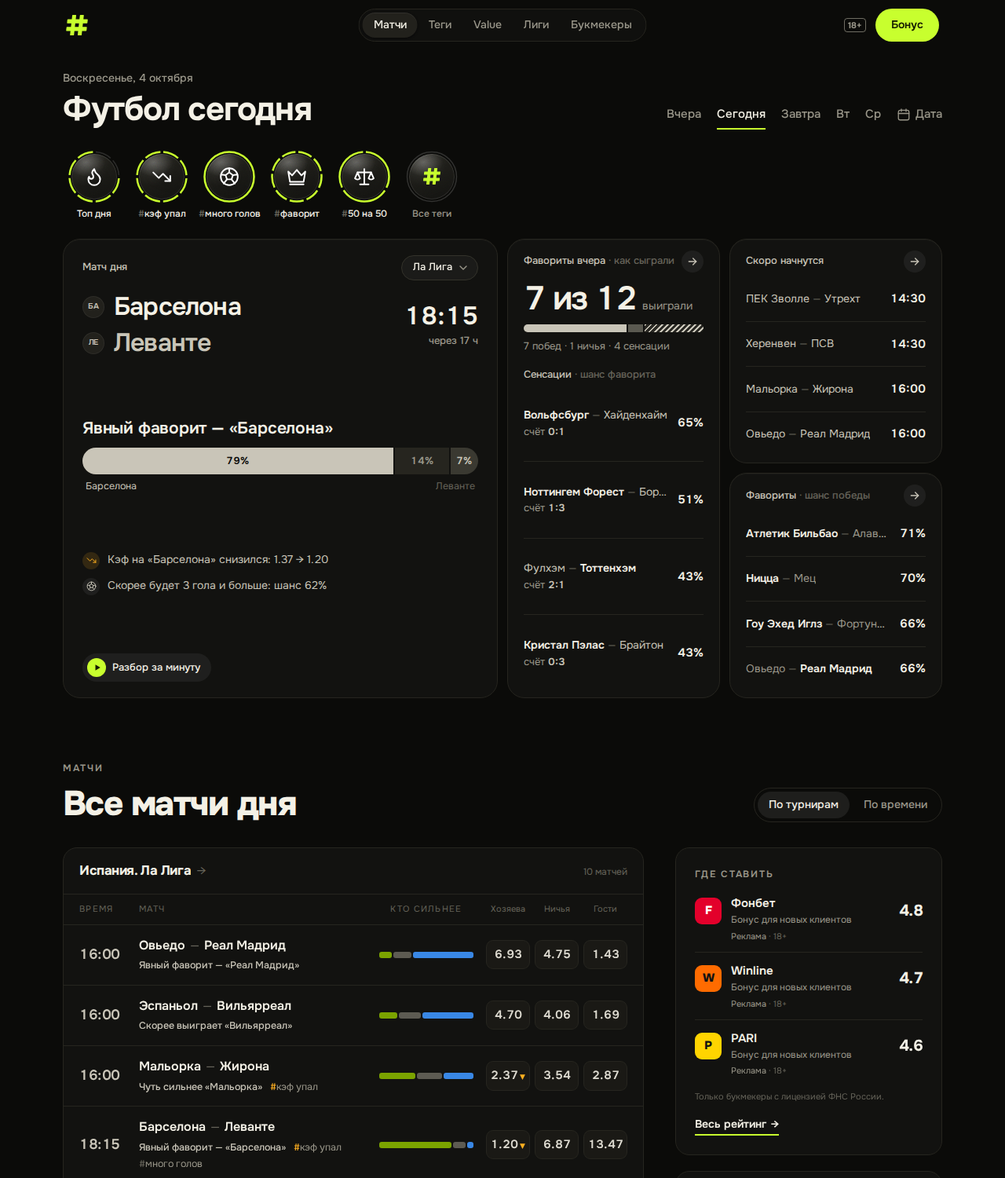
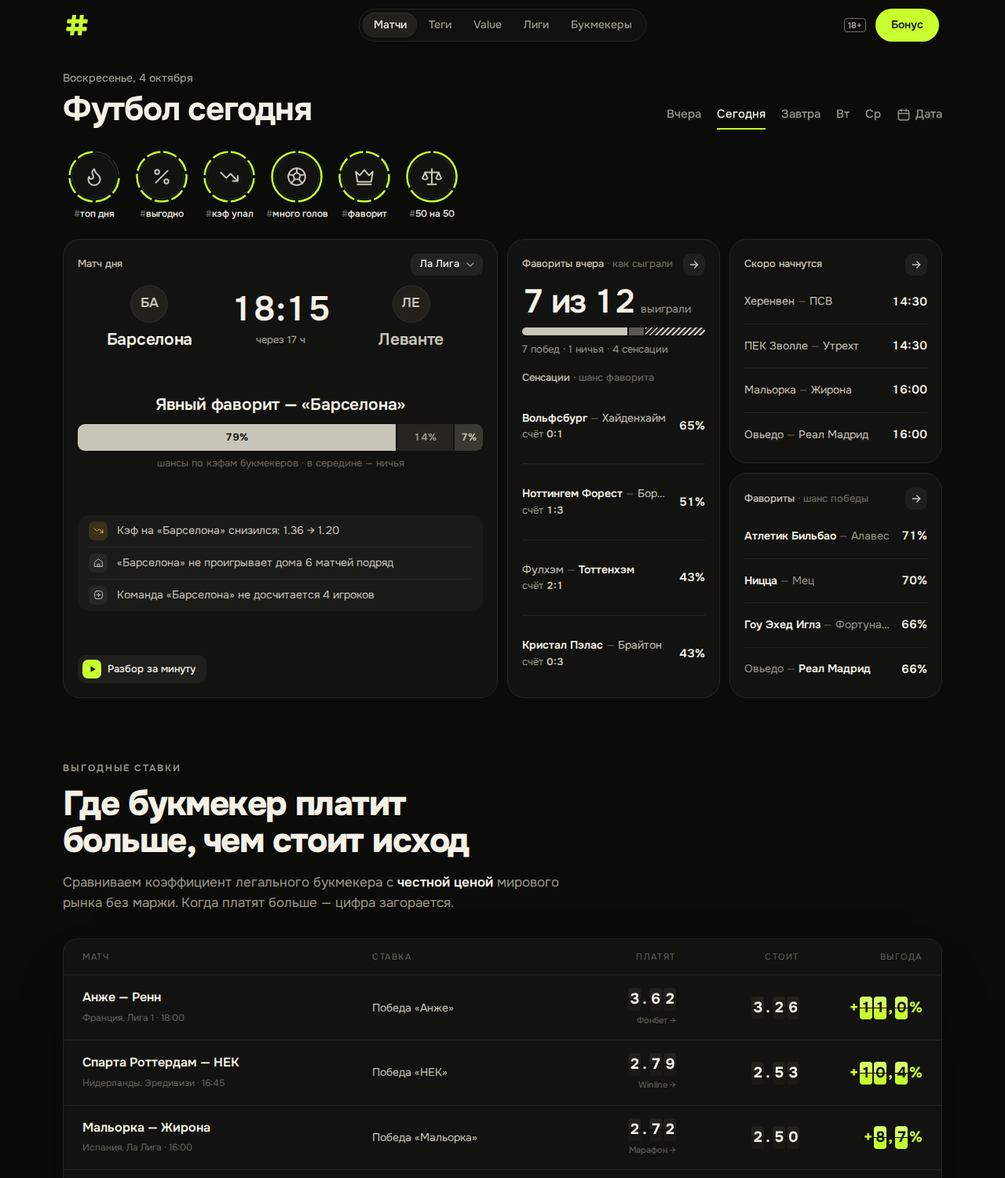
«Матч дня» — табло, как карточка матча в спортивных приложениях
- Табло: хозяева (эмблема и название) · время начала или счёт с минутой ·
  гости — вместо двух строк команд и времени сбоку.
- Под табло — вывод по центру и полоса шансов: левая часть под хозяевами,
  правая под гостями, поэтому подписи с названиями больше не повторяются;
  одна строка «шансы по кэфам букмекеров · в середине — ничья».
- Факты «почему» — одной вложенной панелью с разделителями.
- Во время игры — красный счёт, минута и полоса «сыграно N из 90 минут».
- Сводка по-прежнему влезает в 1280×720, 1440×760 и 1470×805.

Claude-Session: https://claude.ai/code/session_01LqCxNKeCAKNwhNzoBsjYvY

diff --git a/components/DaySummary.tsx b/components/DaySummary.tsx
@@ -230,9 +230,9 @@ function cardFor(kind: CardKind, s: Summary): ListCard {
 // ─── Матч дня ────────────────────────────────────────────────────────────────
 
 /**
- * Шансы одной полосой: хозяева · ничья · гости — доли ширины, проценты (в сумме 100) в полосе,
- * под ней — чей это шанс: команда, «ничья», команда. Без своих цветов, чтобы не спорить с лаймом:
- * светлая часть — фаворит, остальные — тёмные.
+ * Шансы одной полосой прямо под табло: левая часть — под хозяевами, правая — под гостями, середина —
+ * ничья; проценты (в сумме 100) внутри. Подписи с названиями не нужны — команды стоят прямо над полосой.
+ * Без своих цветов, чтобы не спорить с лаймом: светлая часть — фаворит, остальные — тёмные.
  */
 function ChanceBar({ m }: { m: Match }) {
   const f = fair1x2(m.odds?.x12)
@@ -245,43 +245,21 @@ function ChanceBar({ m }: { m: Match }) {
     n: n[k],
     name: k === 'draw' ? 'ничья' : k === 'home' ? m.home.name : m.away.name,
   }))
-  // «Ничья» под серединой — только если по обе стороны хватает места подписям команд
-  const BAR = 500
-  const est = (t: string) => t.length * 7 + 10
-  const mid = f.home + f.draw / 2
-  const drawAt = f.draw >= 0.1 && mid * BAR >= est(m.home.name) + 30 && (1 - mid) * BAR >= est(m.away.name) + 30 ? mid * 100 : null
   const tone = (k: (typeof cells)[number]['k']) => (k === fav ? 'bg-chalk text-ink' : k === 'draw' ? 'bg-[#26251f] text-dim' : 'bg-[#3a3931] text-chalk')
   const label = `Шансы по коэффициентам букмекеров: ${cells.map((c) => `${c.k === 'draw' ? c.name : `«${c.name}»`} — ${c.n}%`).join(', ')}`
   return (
     <div role="img" aria-label={label} title={label}>
-      <div className="flex h-7 gap-0.5 overflow-hidden rounded-full lg:h-[clamp(28px,3.4vh,34px)]">
+      <div className="flex h-7 gap-0.5 overflow-hidden rounded-[9px] lg:h-[clamp(28px,3.4vh,34px)]">
         {cells.map((c) => (
           <span key={c.k} className={`num grid min-w-0 place-items-center text-[13px] font-semibold ${tone(c.k)}`} style={{ width: `${c.p * 100}%` }}>
             <span className="truncate px-1">{c.n}%</span>
           </span>
         ))}
       </div>
-      {/* команды — по краям полосы, не обрезаются узким сегментом; «Ничья» — под серединой,
-          если ей хватает места (оценка по ширине полосы ~500 px), на телефоне — только команды */}
-      <div className="relative mt-1.5 h-[18px] text-[12.5px] leading-[18px]" aria-hidden>
-        <span
-          className={`absolute left-0 top-0 max-w-[55%] truncate pl-1 sm:max-w-[var(--hm)] ${fav === 'home' ? 'text-chalk' : 'text-mute'}`}
-          style={{ '--hm': drawAt ? `${drawAt - 6}%` : '55%' } as React.CSSProperties}
-        >
-          {m.home.name}
-        </span>
-        {drawAt ? (
-          <span className="absolute top-0 hidden -translate-x-1/2 text-mute sm:block" style={{ left: `${drawAt}%` }}>
-            Ничья
-          </span>
-        ) : null}
-        <span
-          className={`absolute right-0 top-0 max-w-[45%] truncate pr-1 text-right sm:max-w-[var(--am)] ${fav === 'away' ? 'text-chalk' : 'text-mute'}`}
-          style={{ '--am': drawAt ? `${100 - drawAt - 6}%` : '45%' } as React.CSSProperties}
-        >
-          {m.away.name}
-        </span>
-      </div>
+      {/* на невысоком ноутбуке подпись прячем — карточка должна влезать в экран */}
+      <p className="mt-1.5 text-center text-[13px] text-mute lg:[@media(max-height:779px)]:hidden" aria-hidden>
+        шансы по кэфам букмекеров · в середине — ничья
+      </p>
     </div>
   )
 }
@@ -307,8 +285,9 @@ function reasonsFor(it: FeedItem, v: Verdict | null): Reason[] {
 }
 
 /**
- * Слайд «Матча дня»: команды и время → вывод словами и полоса шансов → почему (до трёх фактов) → разбор.
- * Шапка с лигой и точками — у карусели (TopCarousel); лишняя высота делится поровну между блоками.
+ * Слайд «Матча дня» — как карточка матча в спортивных приложениях: табло (хозяева · время или счёт · гости),
+ * под ним вывод словами и полоса шансов, ниже — факты «почему» одной панелью и кнопки.
+ * Шапка с выбором лиги — у карусели (TopCarousel); лишняя высота делится поровну между блоками.
  */
 function TopSlide({ it }: { it: FeedItem }) {
   const m = it.match
@@ -321,60 +300,65 @@ function TopSlide({ it }: { it: FeedItem }) {
   const betLabel = bet && pick ? (pick.key === v.side ? 'Выгодно' : `Выгодно: ${bet.text}`) : null
   // факты о командах (серии, дом, потери, личные встречи) полезны и во время игры; после матча — уже нет
   const reasons = m.status === 'finished' ? [] : reasonsFor(it, v)
-  const team = (t: Match['home'], goals: number | undefined, dim = false) => (
-    <span className={`flex min-w-0 items-center gap-3 ${dim ? 'text-chalk' : ''}`}>
-      <TeamLogo name={t.name} src={t.logo} size={28} />
-      <span className="min-w-0 flex-1 truncate">{t.name}</span>
-      {played ? <span className={`num shrink-0 font-semibold ${live ? 'text-live' : 'text-fg'}`}>{goals}</span> : null}
+  const minute = m.statusCode === 4 ? 'перерыв' : m.elapsed ? `${m.elapsed}-я минута` : 'идёт'
+  const side = (t: Match['home'], k: 'home' | 'away') => (
+    <span className="flex min-w-0 flex-col items-center gap-2 text-center">
+      <TeamLogo name={t.name} src={t.logo} size={48} />
+      <span
+        className={`line-clamp-2 text-[16px] font-semibold leading-tight tracking-[-0.015em] sm:text-[18px] lg:text-[clamp(17px,2.5vh,21px)] ${v?.side && v.side !== k ? 'text-chalk' : 'text-fg'}`}
+      >
+        {t.name}
+      </span>
     </span>
   )
   return (
-    <div className="relative flex min-w-0 flex-1 flex-col justify-between gap-4">
-      <div>
-        {/* команды, справа — время начала, как на табло; после стартового свистка на этом месте счёт */}
-        <div className="flex items-center gap-3 text-[21px] font-semibold leading-tight tracking-[-0.025em] sm:text-[23px] lg:gap-5 lg:text-[clamp(23px,3.6vh,32px)]">
-          <StoryLink id={m.id} href={matchHref(m)} className={`block min-w-0 flex-1 space-y-1.5 ${COVER}`}>
-            {team(m.home, m.score?.home)}
-            {team(m.away, m.score?.away, true)}
-          </StoryLink>
-          {played ? null : (
-            <p className="shrink-0 text-right">
-              <span className="num block leading-none">{formatTime(m.ts)}</span>
-              {/* «через 40 мин» — только где есть место: на телефоне названия команд важнее */}
-              <span className="mt-2 hidden text-[13px] font-medium leading-none tracking-normal text-dim sm:block">{until(m.ts)}</span>
-            </p>
-          )}
-        </div>
-      </div>
+    <div className="relative flex min-w-0 flex-1 flex-col justify-between gap-4 lg:[@media(max-height:779px)]:gap-3">
+      {/* табло: хозяева — время (после свистка — счёт) — гости; вся карточка открывает сторис */}
+      <StoryLink id={m.id} href={matchHref(m)} className={`grid grid-cols-[minmax(0,1fr)_auto_minmax(0,1fr)] items-start gap-3 ${COVER}`}>
+        {side(m.home, 'home')}
+        <span className="flex flex-col items-center pt-2">
+          <span
+            className={`num whitespace-nowrap text-[30px] font-semibold leading-none tracking-[-0.03em] sm:text-[34px] lg:text-[clamp(32px,4.6vh,44px)] ${live ? 'text-live' : ''}`}
+          >
+            {played && m.score ? `${m.score.home} : ${m.score.away}` : formatTime(m.ts)}
+          </span>
+          <span className={`mt-2 whitespace-nowrap text-[13px] font-medium ${live ? 'text-live' : 'text-dim'}`}>
+            {live ? minute : m.status === 'finished' ? 'итог' : until(m.ts)}
+          </span>
+        </span>
+        {side(m.away, 'away')}
+      </StoryLink>
 
       {played ? (
-        <div>
-          <p className="mb-3 text-[17px] font-semibold leading-snug tracking-[-0.01em] lg:text-[clamp(17px,2.5vh,21px)]">
-            {live ? (m.statusCode === 4 ? 'Перерыв' : m.elapsed ? `Идёт ${m.elapsed}-я минута` : 'Идёт матч') : 'Матч завершён'}
-          </p>
-          {live ? (
+        live ? (
+          // идёт матч: сколько сыграно — тонкой полосой; вывода до матча здесь уже нет
+          <div>
             <div className="h-1.5 rounded-full bg-white/[0.08]" aria-hidden>
               <div className="h-full rounded-full bg-live" style={{ width: `${Math.min(100, ((m.elapsed ?? 45) / 90) * 100)}%` }} />
             </div>
-          ) : null}
-        </div>
+            <p className="mt-2 text-center text-[13px] text-mute">сыграно {Math.min(90, m.elapsed ?? 45)} из 90 минут</p>
+          </div>
+        ) : null
       ) : (
         // вывод → на чём он основан (полоса шансов по кэфам)
         <div>
-          {v ? <p className="mb-2.5 text-[17px] font-semibold leading-snug tracking-[-0.01em] lg:text-[clamp(17px,2.5vh,21px)]">{v.headline}</p> : null}
+          {v ? <p className="mb-2.5 text-center text-[17px] font-semibold leading-snug tracking-[-0.01em] lg:text-[clamp(17px,2.5vh,21px)]">{v.headline}</p> : null}
           <ChanceBar m={m} />
         </div>
       )}
 
       {reasons.length ? (
-        // третий факт — только где хватает высоты: на невысоком ноутбуке карточка не должна вылезать за экран
-        <ul className="space-y-2.5">
+        // факты «почему» — одной панелью; третий — только где хватает высоты (невысокий ноутбук)
+        <ul className="rounded-[14px] bg-white/[0.035] px-3.5">
           {reasons.map((r, i) => (
-            <li key={i} className={`flex items-start gap-2.5 text-[14px] leading-snug text-chalk ${i === 2 ? 'lg:[@media(max-height:779px)]:hidden' : ''}`}>
-              <span className={`mt-px grid h-[22px] w-[22px] shrink-0 place-items-center rounded-full ${r.hot ? 'bg-hot/[0.14] text-hot' : 'bg-white/[0.06] text-chalk'}`}>
+            <li
+              key={i}
+              className={`flex items-center gap-3 border-t border-edge py-2 text-[14px] leading-snug text-chalk first:border-t-0 ${i === 2 ? 'lg:[@media(max-height:779px)]:hidden' : ''}`}
+            >
+              <span className={`grid h-6 w-6 shrink-0 place-items-center rounded-[7px] ${r.hot ? 'bg-hot/[0.14] text-hot' : 'bg-white/[0.06] text-chalk'}`}>
                 <ArtIcon name={r.icon} className="h-[13px] w-[13px]" />
               </span>
-              <span className="line-clamp-2 pt-px">{r.text}</span>
+              <span className="line-clamp-2">{r.text}</span>
             </li>
           ))}
         </ul>

diff --git a/components/TopCarousel.tsx b/components/TopCarousel.tsx
@@ -94,7 +94,7 @@ export function TopCarousel({ heads, className = '', children }: { heads: { leag
       </div>
       <div
         ref={track}
-        className="scrollbar-none mt-3.5 flex flex-1 snap-x snap-mandatory overflow-x-auto overscroll-x-contain"
+        className="scrollbar-none mt-3 flex flex-1 snap-x snap-mandatory overflow-x-auto overscroll-x-contain"
         onScroll={(e) => {
           const el = e.currentTarget
           const k = Math.round(el.scrollLeft / Math.max(1, el.clientWidth))

diff --git a/AGENTS.md b/AGENTS.md
@@ -20,7 +20,7 @@ This block is written and re-added by `next dev` — verify at `node_modules/nex
 - Демо без сети: `SSTATS_MOCK=1` (полосы над шапкой нет — только строка в подвале, `IS_MOCK` в `Footer.tsx`). Проверки: `npm run typecheck`, `npm test`, `npm run build`.
 - «Матч в слайдах» (сторис): данные — `lib/story.ts` → `/api/story/[id]`, просмотр и графики — `components/story/`. Ссылки на матч в списках — через `StoryLink` (обычная ссылка для SEO, клик открывает сторис).
 - Кружки историй на главной: группы — `lib/story-groups.ts` (порядок по `lib/rank.ts`), ряд — `components/story/StoryCircles.tsx`, очередь передаётся в просмотрщик через `openStory({ queue })`. Просмотренные — в `localStorage` (`components/story/seen.ts`, ключ `tagbet:seen:v2`), только для колец и отдельно для каждого кружка (отметка «кружок:матч»): просмотр в одном кружке не гасит другие, открытия из списков и виджетов не считаются; сегменты гаснут по порядку от верха. Очередь по тапу и отметки повторов — `components/story/queue.ts` (тест `tests/story-queue.test.ts`). На главной — «#в игре», «#топ дня» и до 5 главных тегов (`mainCircles`), подписи в одну строку; хештег — у всех кружков, и у подборок тоже (владельцу показалось странным, что «Топ дня» без него).
-- «Сводка дня» (виджеты первого экрана главной): данные — `lib/day-summary.ts` (`buildDaySummary`: матч дня и подборки `lists` — live, ближайшие, фавориты от 60%, голы, выгодные, падение кэфа; матч дня в подборках не повторяется; `summaryCards` — какие 4 плитки показать: что идёт (или скоро начнётся) → фавориты → голы → выгодно, запасные — кэф упал, ближайшие, турниры дня), вид — `components/DaySummary.tsx`. «Матч дня» — `components/TopCarousel.tsx` (клиент): по слайду на главный матч каждой топ-лиги (`tops` в `buildDaySummary`, до 5, первым — матч дня); лига выбирается чипом-меню «Ла Лига ▾» справа сверху, сама карточка не листается (выбор не должен уезжать); лента со scroll-snap — свайп на телефоне, без JS видны все слайды. На «Сегодня» рядом — аналитика «Фавориты вчера · как сыграли» (`favoritesRecap` в `lib/day-summary.ts`, `RecapTile`): «7 из 12 выиграли», одна сегментная полоса «победы · ничьи · сенсации» с подписью словами и строки сенсаций (матч, счёт, шанс фаворита) — та же схема строк, что у подборок; не возвращайте столбиковую диаграмму без подписей — владелец счёл её странной; тёмная, во всю высоту, на месте двух плиток — подборок справа тогда две. На компьютере слева высокий «Матч дня»: команды и время начала справа, как на табло (в игре — счёт; «через 40 мин» — от sm), вывод словами и нейтральная полоса шансов в процентах с подписями «команда · Ничья · команда» (светлая — фаворит), до трёх фактов «почему» из тегов (значки — как у кружков этих тегов; третий — только при высоте окна от 780px), «Разбор за минуту» и «Выгодно». Справа — до 4 плиток-подборок 2×2: каждая отвечает на один вопрос несколькими матчами — заголовок с вопросом и что значит цифра («Фавориты · шанс победы», «Ждём голов · шанс 3+ голов»), строки «команды … цифра» (выделенная команда — ярче или цветом подборки), строка открывает сторис, заголовок со стрелкой `Go` — страницу тега или список матчей. Строки делят высоту плитки поровну (пустот нет); четвёртая — только на lg при высоте окна от 760px. Не возвращайте плитки «одна крупная цифра + один матч» — владелец счёл их неинформативными; и не убирайте «Матч дня» — без него сводка («Главное за день») не понравилась. Всё тёмное, цвет — только у цифр и выделенной команды: лайм — выгодно, янтарь — кэф упал, красный — live; текст не мельче 13px, без колец-диаграмм (похожи на значок загрузки). Выбор дня — `DateTabs` (Вчера · Сегодня · Завтра · дальше день недели без числа; красная точка у «Сегодня», пока идут матчи — `liveToday` из `DayView`) + календарь `DatePicker` (±1 год / +2 месяца). Порядок «Все матчи дня» — переключатель «По турнирам / По времени» ссылками `?sort=time` (без JS, canonical прежний; `TimeBlock` — по часам, с турниром в строке); на прошедших днях переключателя нет — там порядок по турнирам, главные результаты первыми. Первый экран главной (шапка, кружки, сводка) на компьютере занимает всё окно: обёртка в `DayView` — `lg:min-h-[min(calc(100svh-7rem),50rem)]`, сводка — `lg:flex-1`, команды и вывод «Матча дня» растут с высотой окна (`clamp(…vh…)`), а «Все матчи дня» начинаются ниже, по прокрутке. Сводка должна влезать целиком в 1280×720 и 1440×760, а заголовок «Матчи» — не выглядывать снизу; проверяйте замером. На прошедших днях сводки нет.
+- «Сводка дня» (виджеты первого экрана главной): данные — `lib/day-summary.ts` (`buildDaySummary`: матч дня и подборки `lists` — live, ближайшие, фавориты от 60%, голы, выгодные, падение кэфа; матч дня в подборках не повторяется; `summaryCards` — какие 4 плитки показать: что идёт (или скоро начнётся) → фавориты → голы → выгодно, запасные — кэф упал, ближайшие, турниры дня), вид — `components/DaySummary.tsx`. «Матч дня» — `components/TopCarousel.tsx` (клиент): по слайду на главный матч каждой топ-лиги (`tops` в `buildDaySummary`, до 5, первым — матч дня); лига выбирается чипом-меню «Ла Лига ▾» справа сверху, сама карточка не листается (выбор не должен уезжать); лента со scroll-snap — свайп на телефоне, без JS видны все слайды. На «Сегодня» рядом — аналитика «Фавориты вчера · как сыграли» (`favoritesRecap` в `lib/day-summary.ts`, `RecapTile`): «7 из 12 выиграли», одна сегментная полоса «победы · ничьи · сенсации» с подписью словами и строки сенсаций (матч, счёт, шанс фаворита) — та же схема строк, что у подборок; не возвращайте столбиковую диаграмму без подписей — владелец счёл её странной; тёмная, во всю высоту, на месте двух плиток — подборок справа тогда две. На компьютере слева высокий «Матч дня» — как карточка матча в спортивных приложениях: табло «хозяева (эмблема 48px и название) · время (под ним «через 40 мин» / дата; в игре — красный счёт и минута) · гости», под ним вывод словами по центру и нейтральная полоса шансов в процентах (левая часть — под хозяевами, правая — под гостями, светлая — фаворит; подписей с названиями нет — команды прямо над полосой, одна строка «шансы по кэфам букмекеров · в середине — ничья», на невысоком экране скрыта), факты «почему» из тегов одной вложенной панелью с разделителями (значки — как у кружков этих тегов; третий — только при высоте окна от 780px), «Разбор за минуту» и «Выгодно»; во время игры — полоса «сыграно N из 90 минут». Справа — до 4 плиток-подборок 2×2: каждая отвечает на один вопрос несколькими матчами — заголовок с вопросом и что значит цифра («Фавориты · шанс победы», «Ждём голов · шанс 3+ голов»), строки «команды … цифра» (выделенная команда — ярче или цветом подборки), строка открывает сторис, заголовок со стрелкой `Go` — страницу тега или список матчей. Строки делят высоту плитки поровну (пустот нет); четвёртая — только на lg при высоте окна от 760px. Не возвращайте плитки «одна крупная цифра + один матч» — владелец счёл их неинформативными; и не убирайте «Матч дня» — без него сводка («Главное за день») не понравилась. Всё тёмное, цвет — только у цифр и выделенной команды: лайм — выгодно, янтарь — кэф упал, красный — live; текст не мельче 13px, без колец-диаграмм (похожи на значок загрузки). Выбор дня — `DateTabs` (Вчера · Сегодня · Завтра · дальше день недели без числа; красная точка у «Сегодня», пока идут матчи — `liveToday` из `DayView`) + календарь `DatePicker` (±1 год / +2 месяца). Порядок «Все матчи дня» — переключатель «По турнирам / По времени» ссылками `?sort=time` (без JS, canonical прежний; `TimeBlock` — по часам, с турниром в строке); на прошедших днях переключателя нет — там порядок по турнирам, главные результаты первыми. Первый экран главной (шапка, кружки, сводка) на компьютере занимает всё окно: обёртка в `DayView` — `lg:min-h-[min(calc(100svh-7rem),50rem)]`, сводка — `lg:flex-1`, команды и вывод «Матча дня» растут с высотой окна (`clamp(…vh…)`), а «Все матчи дня» начинаются ниже, по прокрутке. Сводка должна влезать целиком в 1280×720 и 1440×760, а заголовок «Матчи» — не выглядывать снизу; проверяйте замером. На прошедших днях сводки нет.
 - Шапка (логотип — только наклонная лаймовая решётка `LogoMark`, 26 px в шапке и 28 в подвале, без надписи «tag.bet» — так решил владелец; знак — `components/logo-paths.ts` из `public/brand/mark.svg`; без подложки): `components/Header.tsx` + `HeaderShell.tsx` (стекло после прокрутки) + `NavCapsule.tsx` (меню-капсула; раздел по адресу — `activeNav`).
 - Кнопки и чипы внутри карточек (чип лиги, стрелка `Go`, «Разбор за минуту», «Выгодно») — скруглённые прямоугольники (углы 9–10px, меню — 14px), мягкая заливка без обводки, высота 28px; капсулой остаётся только меню в шапке. Отступ карточек сводки — 18px со всех сторон (у чипа в углу сверху и справа поровну — проверяйте замером).
 - Цвета по смыслу: лайм — «цена выше честной» (сила перевеса — яркостью лайма, `edgeTone` в `components/Flaps.tsx`), янтарь — прогруз, красный — live. Светофор не используем.
